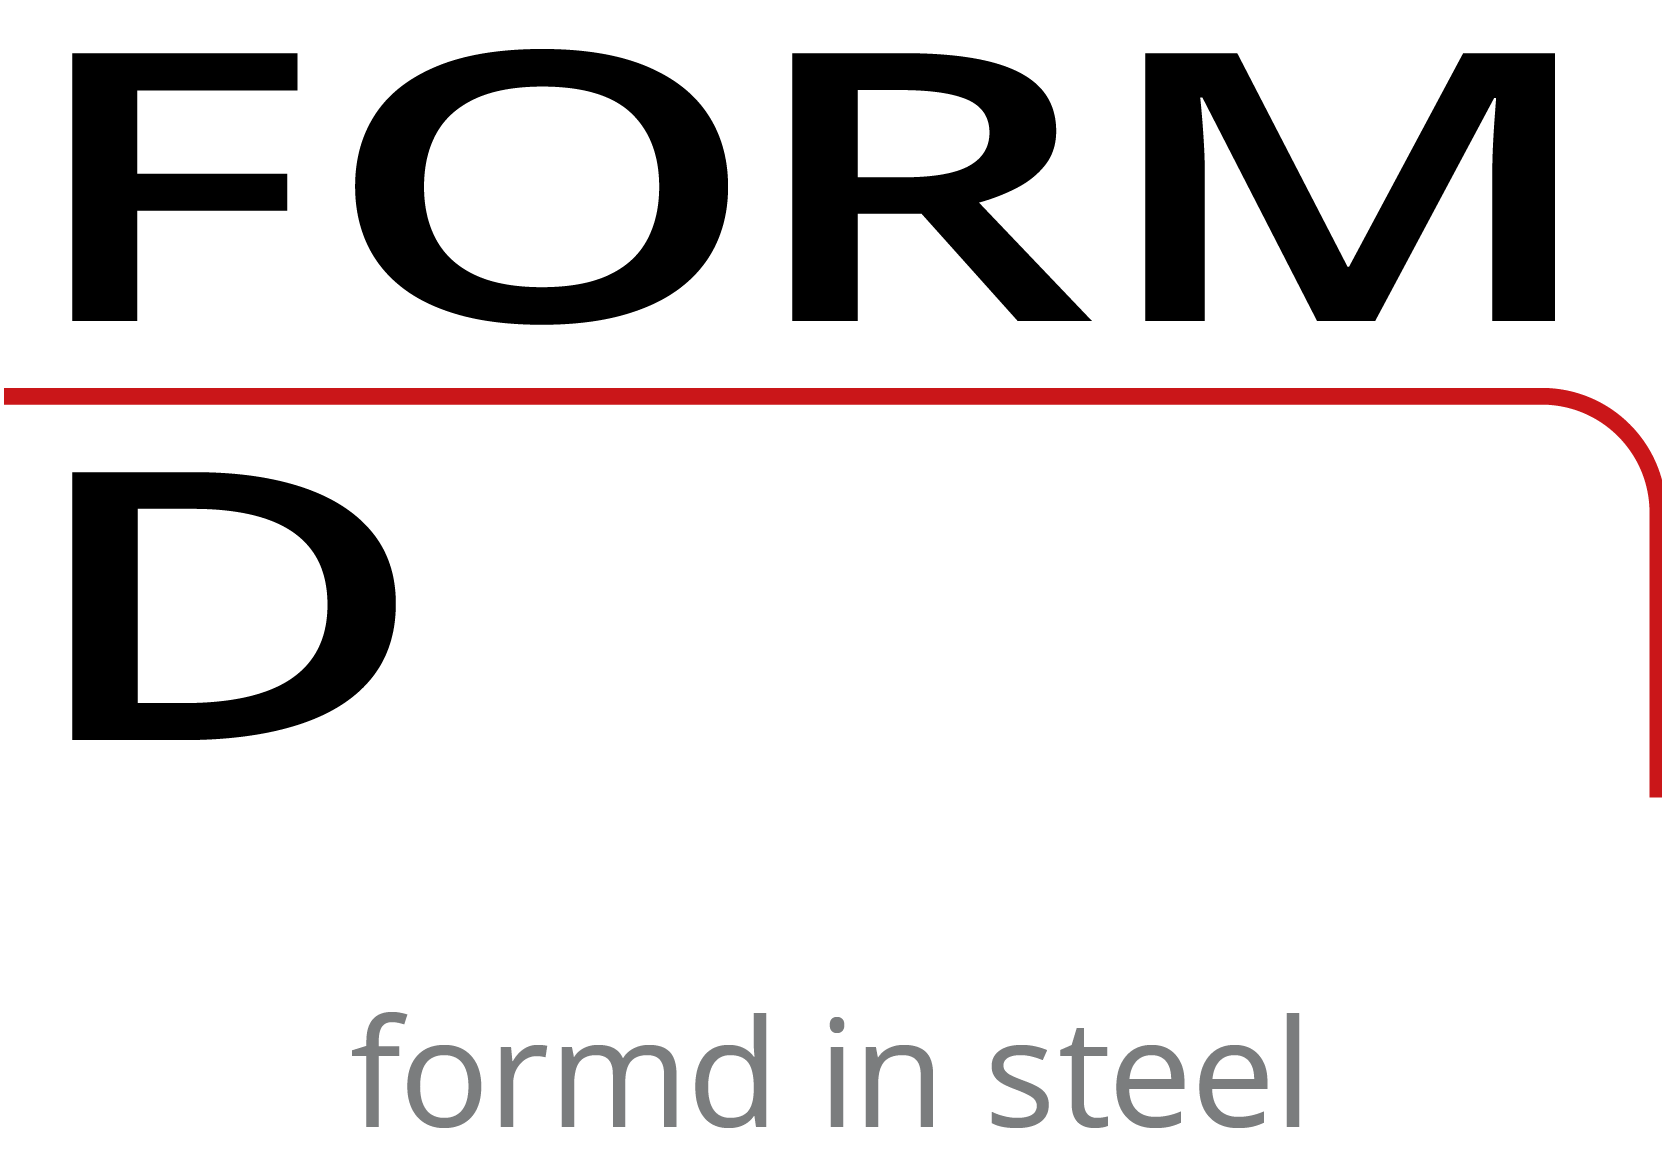
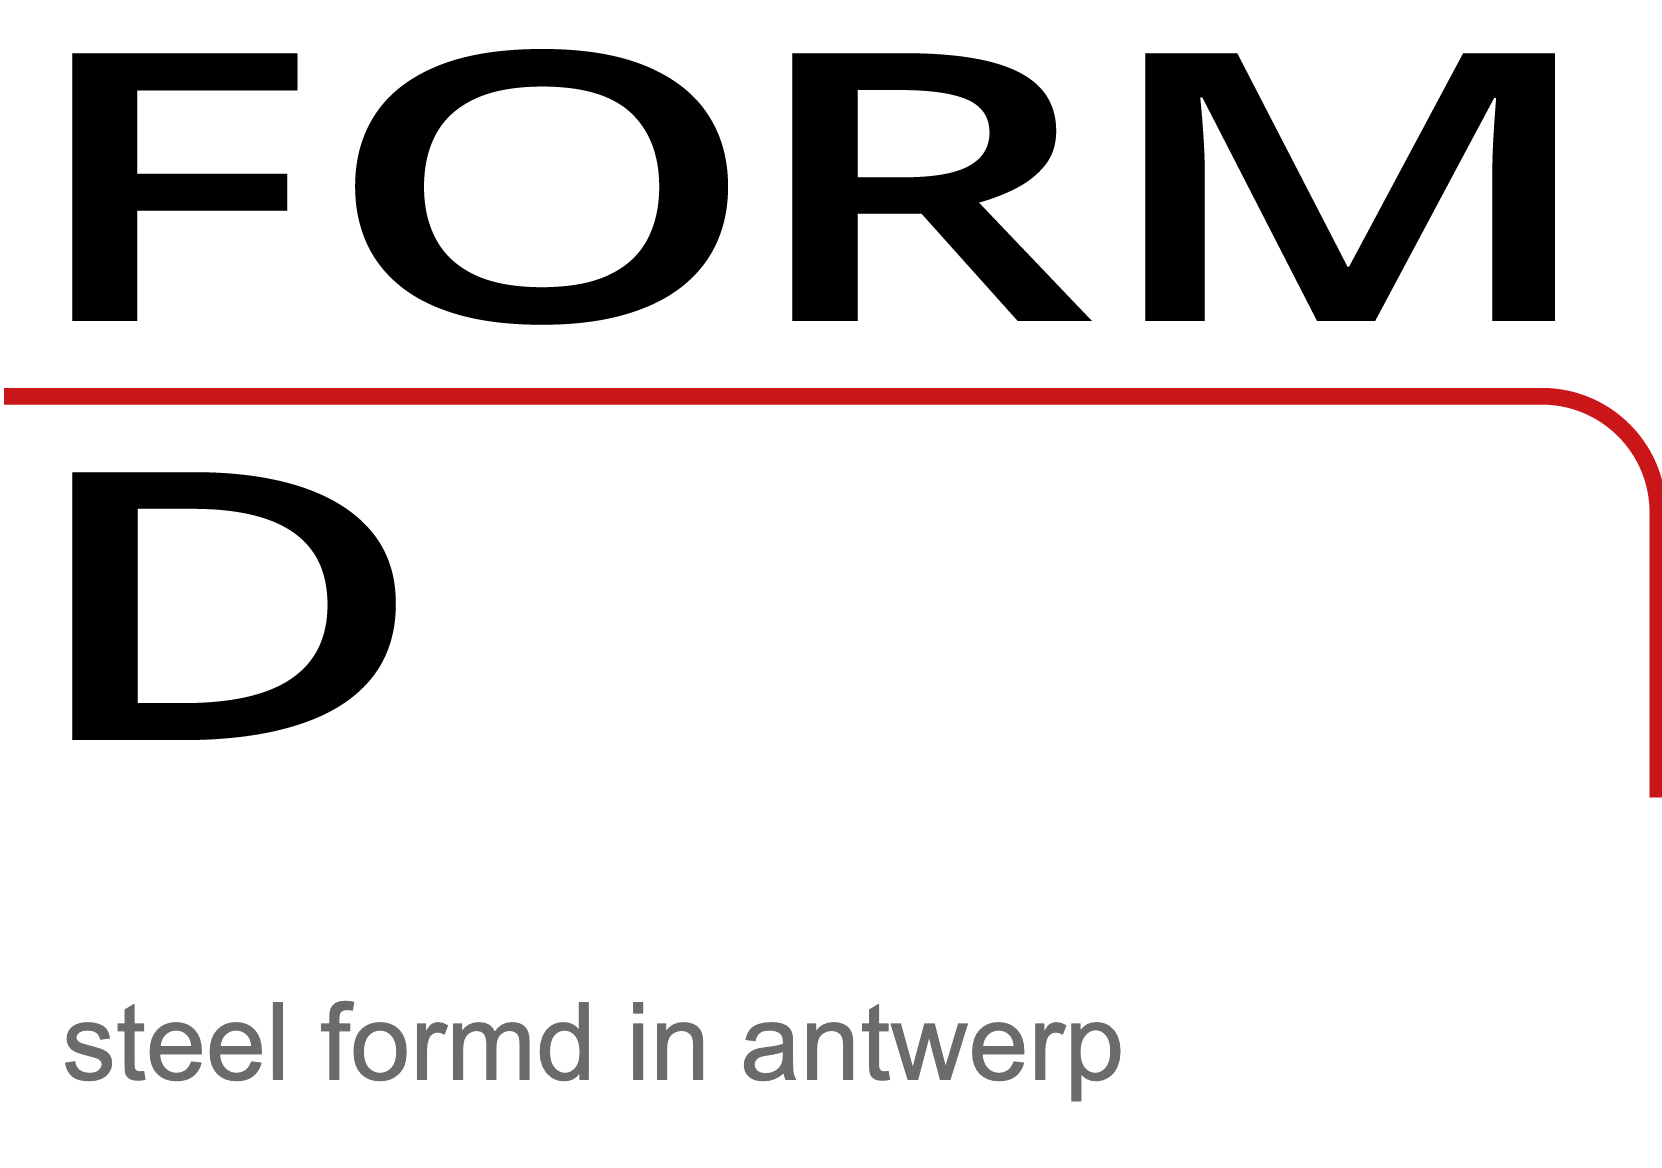
feat(branding): tagline "formd in steel" -> "steel formd in antwerp"
Aangepast in het footer-logo (formd-secondary.png, wordmark en rode lijn
ongewijzigd, enkel de tagline-tekst herrenderd) en overal waar de tagline
als tekst voorkomt: og-image alt-tekst, contactmail, verzend-/order-/
factuurmails.

Changed region(s): [[0.0307, 0.863, 0.7978, 0.9863]]

diff --git a/components/email-templates/professional-order-email.tsx b/components/email-templates/professional-order-email.tsx
@@ -50,7 +50,7 @@ export function ProfessionalOrderEmail({ order, customer, companyInfo }: Profess
                 <tr>
                   <td style="background: linear-gradient(135deg, #fef7f7 0%, #fef5f6 100%); padding: 40px 40px 30px; text-align: center; border-bottom: 3px solid #1a1a1a;">
                     <img src="${logoUrl}" alt="FORMD" style="max-width: 220px; height: auto; margin-bottom: 15px; display: block; margin-left: auto; margin-right: auto;">
-                    <p style="color: #666666; font-size: 13px; margin: 0; font-style: italic; letter-spacing: 1px;">formd in steel</p>
+                    <p style="color: #666666; font-size: 13px; margin: 0; font-style: italic; letter-spacing: 1px;">steel formd in antwerp</p>
                   </td>
                 </tr>
 
@@ -165,7 +165,7 @@ export function ProfessionalOrderEmail({ order, customer, companyInfo }: Profess
                       <a href="mailto:${companyInfo.email}" style="color: #666666; text-decoration: none;">${companyInfo.email}</a> | 
                       <a href="tel:${companyInfo.phone}" style="color: #666666; text-decoration: none;">${companyInfo.phone}</a>
                     </p>
-                    <p style="color: #999999; font-size: 12px; margin: 15px 0 0; font-style: italic;">formd in steel</p>
+                    <p style="color: #999999; font-size: 12px; margin: 15px 0 0; font-style: italic;">steel formd in antwerp</p>
                   </td>
                 </tr>
 

diff --git a/app/api/send-shipping-email/route.ts b/app/api/send-shipping-email/route.ts
@@ -85,7 +85,7 @@ function generateShippingEmailHTML(
                 <tr>
                   <td style="background: linear-gradient(135deg, #fef7f7 0%, #fef5f6 100%); padding: 40px 40px 30px; text-align: center; border-bottom: 3px solid #1a1a1a;">
                     <img src="${logoUrl}" alt="FORMD" style="max-width: 220px; height: auto; margin-bottom: 15px; display: block; margin-left: auto; margin-right: auto;">
-                    <p style="color: #666666; font-size: 13px; margin: 0; font-style: italic; letter-spacing: 1px;">formd in steel</p>
+                    <p style="color: #666666; font-size: 13px; margin: 0; font-style: italic; letter-spacing: 1px;">steel formd in antwerp</p>
                   </td>
                 </tr>
 
@@ -144,7 +144,7 @@ function generateShippingEmailHTML(
                       België<br>
                       <a href="mailto:${fromEmail}" style="color: #666666; text-decoration: none;">${fromEmail}</a>
                     </p>
-                    <p style="color: #999999; font-size: 12px; margin: 15px 0 0; font-style: italic;">formd in steel</p>
+                    <p style="color: #999999; font-size: 12px; margin: 15px 0 0; font-style: italic;">steel formd in antwerp</p>
                   </td>
                 </tr>
 

diff --git a/components/email-templates/professional-shipping-email.tsx b/components/email-templates/professional-shipping-email.tsx
@@ -21,7 +21,7 @@ export function generateShippingConfirmationEmail(order: any): string {
                 <tr>
                   <td style="background: linear-gradient(135deg, #fef7f7 0%, #fef5f6 100%); padding: 40px 30px; text-align: center; border-bottom: 3px solid #1a1a1a;">
                     <img src="${logoUrl}" alt="FORMD" style="max-width: 200px; height: auto; margin-bottom: 10px; display: block; margin-left: auto; margin-right: auto;">
-                    <p style="color: #666666; font-size: 13px; margin: 0; letter-spacing: 1px; font-style: italic;">formd in steel</p>
+                    <p style="color: #666666; font-size: 13px; margin: 0; letter-spacing: 1px; font-style: italic;">steel formd in antwerp</p>
                   </td>
                 </tr>
 
@@ -93,7 +93,7 @@ export function generateShippingConfirmationEmail(order: any): string {
                       <a href="mailto:info@formd.be" style="color: #666666; text-decoration: none;">info@formd.be</a>
                     </p>
                     <p style="color: #999999; font-size: 12px; margin: 15px 0 0; font-style: italic;">
-                      formd in steel
+                      steel formd in antwerp
                     </p>
                   </td>
                 </tr>

diff --git a/components/email-templates/professional-invoice.tsx b/components/email-templates/professional-invoice.tsx
@@ -54,7 +54,7 @@ export function ProfessionalInvoice({ order, invoiceNumber, customer, companyInf
           <tr>
             <td width="50%" style="vertical-align: top;">
               <img src="${logoUrl}" alt="FORMD" style="max-width: 200px; height: auto; margin-bottom: 10px; display: block;">
-              <p style="margin: 0; color: #888888; font-size: 12px; font-style: italic; letter-spacing: 1px;">formd in steel</p>
+              <p style="margin: 0; color: #888888; font-size: 12px; font-style: italic; letter-spacing: 1px;">steel formd in antwerp</p>
             </td>
             <td width="50%" style="vertical-align: top; text-align: right;">
               <h1 style="margin: 0 0 10px; color: #1a1a1a; font-size: 36px; font-weight: 700;">FACTUUR</h1>
@@ -180,7 +180,7 @@ export function ProfessionalInvoice({ order, invoiceNumber, customer, companyInf
             <a href="tel:${companyInfo.phone}" style="color: #666666; text-decoration: none;">${companyInfo.phone}</a>
           </p>
           <p style="margin: 15px 0 0; color: #999999; font-size: 11px; font-style: italic;">
-            formd in steel
+            steel formd in antwerp
           </p>
         </div>
 

diff --git a/app/api/generate-invoice-pdf/route.ts b/app/api/generate-invoice-pdf/route.ts
@@ -152,7 +152,7 @@ export async function POST(request: NextRequest) {
     <div class="header">
       <div class="logo-section">
         <h1>FORMD</h1>
-        <p class="tagline">formd in steel</p>
+        <p class="tagline">steel formd in antwerp</p>
       </div>
       <div class="invoice-meta">
         <div class="invoice-title">FACTUUR</div>
@@ -241,7 +241,7 @@ export async function POST(request: NextRequest) {
       <p><strong>FORMD</strong></p>
       <p>${settings?.company_address || "Bedrijfsstraat 123"} | BTW: ${settings?.vat_number || "BE0123456789"}</p>
       <p>${settings?.email || "info@formd.be"} | ${settings?.phone || "+32 123 45 67 89"}</p>
-      <p style="margin-top: 10px;"><em>formd in steel</em></p>
+      <p style="margin-top: 10px;"><em>steel formd in antwerp</em></p>
     </div>
   </div>
 </body>

diff --git a/app/api/contact/route.ts b/app/api/contact/route.ts
@@ -105,7 +105,7 @@ export async function POST(request: NextRequest) {
                   <p style="margin-top: 30px;">Met vriendelijke groet,<br><strong>Team FORMD</strong></p>
                 </div>
                 <div class="footer">
-                  <p>FORMD - formd in steel</p>
+                  <p>FORMD - steel formd in antwerp</p>
                   <p>E-mail: info@formd.be</p>
                 </div>
               </div>

diff --git a/app/layout.tsx b/app/layout.tsx
@@ -47,7 +47,7 @@ export const metadata: Metadata = {
         url: "/og-image.png?v=3",
         width: 1200,
         height: 630,
-        alt: "FORMD - formd in steel",
+        alt: "FORMD - steel formd in antwerp",
       },
     ],
   },
